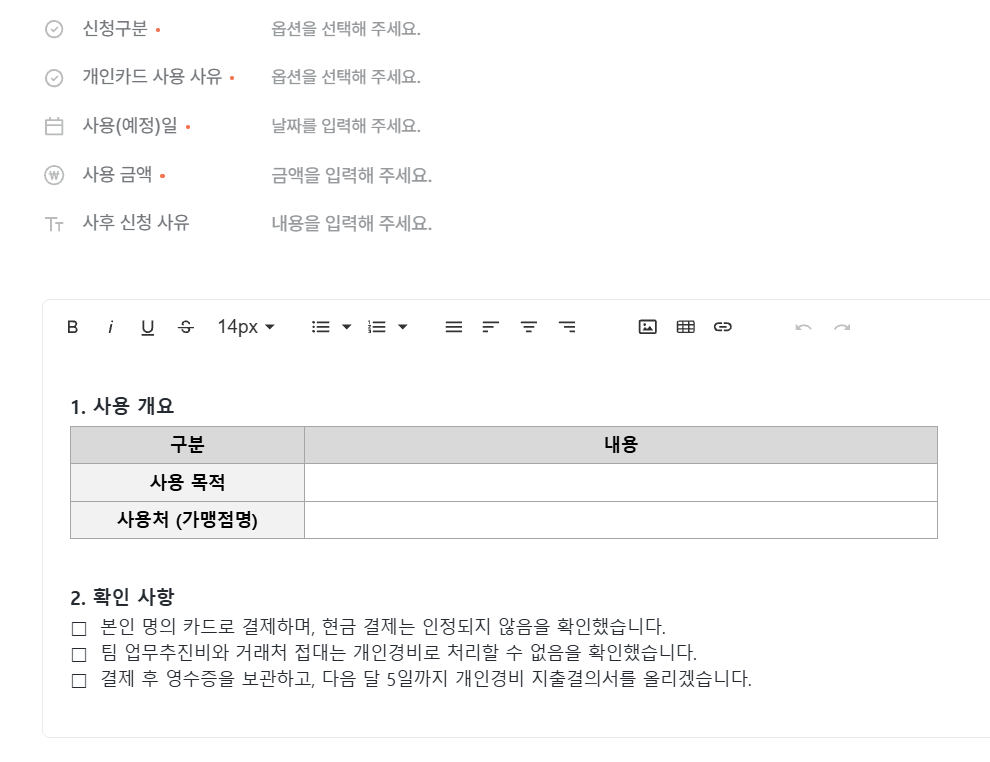
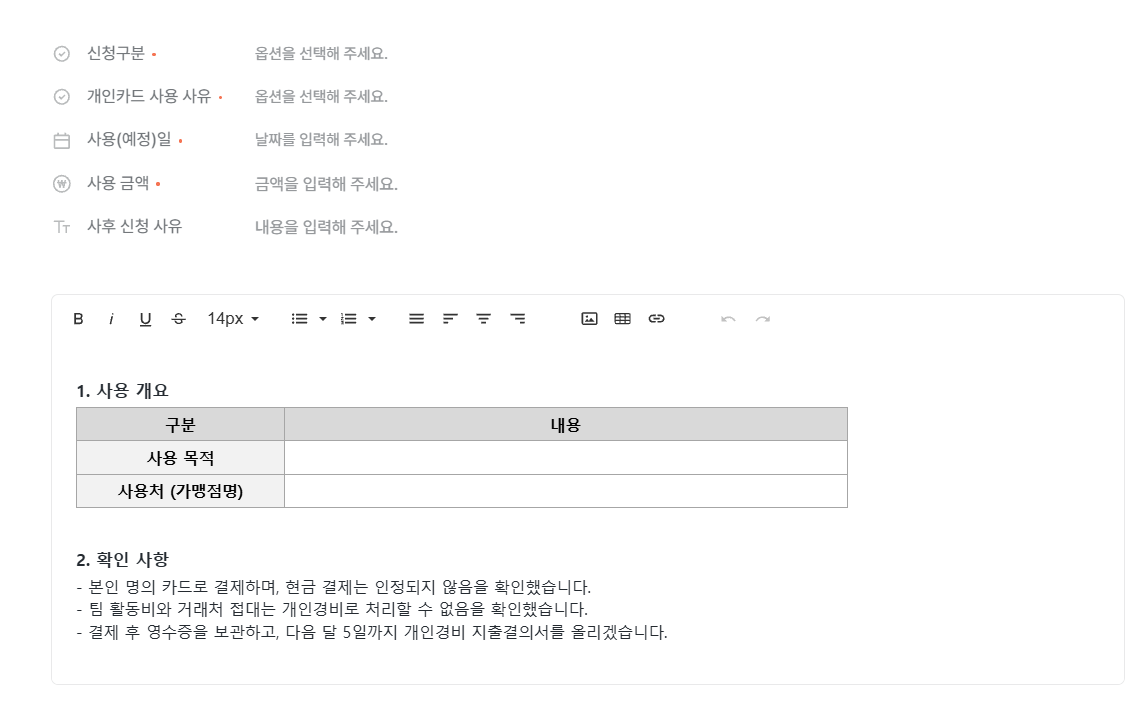
법인카드 가이드: Flex 양식 4종 최신 화면으로 교체
Claude-Session: https://claude.ai/code/session_01BfeG5sZS8sPQMH65t54ZhF

diff --git a/expense-process/index.html b/expense-process/index.html
@@ -303,9 +303,9 @@ details.how[open] summary::before{content:"－ "}
 </div>
 <p class="note" style="margin-top:16px">마감이 지나면 개별로 리마인드 안내를 드립니다.</p></section>
 <div class="part"><span>02</span>이렇게 하세요</div>
-<section id="card-flow" aria-labelledby="card-flow-h"><div class="sec-head"><h2 id="card-flow-h">법인카드로 쓸 때</h2><p>팀 공용카드는 두 가지 용도로 씁니다. 순서는 같고, 결재가 끝나야 결제할 수 있습니다.</p></div><div class="cols"><div class="card" id="s-team"><h3>팀 활동비</h3><span class="sub">팀 회식 · 커피챗 · 팀 회의 중 식음료</span><ol class="steps"><li class="key"><div><b>팀장이 Flex에 법인카드 사용 신청서 올리기</b><span>쓸 때마다 올립니다. 용도는 "팀 활동비". 당일 신청도 되지만 결재가 끝나야 결제할 수 있습니다</span></div></li><li class=""><div><b>결재가 끝나면 팀 공용카드로 결제</b><span>팀장에게 카드를 빌려 쓰고 반납합니다. 결제 시각 기준 평일 21시 이전만 인정</span></div></li><li class=""><div><b>영수증 전달</b><span>팀원이 결제했다면 영수증을 팀장에게 넘깁니다</span></div></li><li class="key"><div><b>팀장이 월말 정산</b><span>다음 달 5일까지. 아래 "월말 정산 올리기" 참고</span></div></li></ol><ul class="list"><li>사내 임직원만 참석할 수 있습니다. 외부인이 함께하면 팀 활동비로 인정하지 않습니다</li><li>다른 팀과 함께할 때는 팀마다 각자 신청하고, 각 팀 인원분을 팀별 카드로 결제합니다. 이렇게 나눠 결제하는 것은 금지된 분할 결제가 아닙니다</li><li>경영진이 참석하면 신청서에 적어 주세요. 경영진 참석분은 팀 한도와 별도로 인정합니다. 당일 갑자기 참석하면 경영진이 결제합니다</li></ul><details class="how"><summary>Flex 작성법 보기</summary><div class="fx-b"><figure><a href="img/form1.png" target="_blank" rel="noopener"><img src="img/form1.png" alt="Flex 작성 화면" loading="lazy"></a></figure><ol class="fx-l"><li><b>올리는 사람</b>팀 활동비 신청서는 팀장이 올립니다.</li><li><b>사용 용도</b>"팀 활동비"를 고릅니다.</li><li><b>카드번호</b>사용할 카드의 끝 4자리를 적습니다. (04 카드 지급예정표 참고)</li><li><b>사용(예정)일 · 사용 금액</b>쓸 날짜와 예상 금액을 적습니다.</li><li><b>본문 · 사용 목적</b>팀 회식, 커피챗, 팀 회의 등 무엇을 위해 쓰는지 적습니다. 경영진이 참석하면 함께 적습니다.</li><li><b>본문 · 사용처</b>결제할 가맹점명을 적습니다.</li><li><b>확인 사항</b>올리기 전에 읽어 주세요. 문서를 올리면 내용을 확인한 것으로 봅니다.</li></ol></div></details></div><div class="card" id="s-biz"><h3>업무경비</h3><span class="sub">거래처 접대 · 택시·외근 · 택배·퀵 · 야근 등</span><ol class="steps"><li class="key"><div><b>Flex에 법인카드 사용 신청서 올리기</b><span>쓸 때마다 올립니다. 용도는 "업무경비". 접대는 상대방·목적·참석 인원 기재. 당일 신청도 되지만 결재가 끝나야 결제할 수 있습니다</span></div></li><li class=""><div><b>결재가 끝나면 팀 공용카드로 결제</b><span>팀장에게 카드를 빌려 쓰고 반납합니다. 영수증은 건별로 보관</span></div></li><li class="key"><div><b>본인이 월말 정산</b><span>다음 달 5일까지. 아래 "월말 정산 올리기" 참고</span></div></li></ol><ul class="list"><li>거래처 접대는 참석자 1인당 3만 원까지입니다 (상대방과 우리 직원 모두 포함)</li><li>실제 금액이 신청 금액보다 커지면, 한도 안에서는 정산할 때 차이 사유를 적으면 인정합니다</li></ul><details class="how"><summary>Flex 작성법 보기</summary><div class="fx-b"><figure><a href="img/form1.png" target="_blank" rel="noopener"><img src="img/form1.png" alt="Flex 작성 화면" loading="lazy"></a></figure><ol class="fx-l"><li><b>사용 용도</b>"업무경비"를 고릅니다.</li><li><b>카드번호</b>사용할 카드의 끝 4자리를 적습니다. (04 카드 지급예정표 참고)</li><li><b>사용(예정)일 · 사용 금액</b>쓸 날짜와 예상 금액을 적습니다.</li><li><b>본문 · 사용 목적</b>무엇을 왜 쓰는지 적습니다. 거래처 접대는 상대방(회사·성명), 목적, 참석 인원을 함께 적습니다.</li><li><b>본문 · 사용처</b>결제할 가맹점명을 적습니다.</li><li><b>확인 사항</b>올리기 전에 읽어 주세요. 문서를 올리면 내용을 확인한 것으로 봅니다.</li></ol></div></details></div></div></section>
-<section id="personal" aria-labelledby="personal-h"><div class="sec-head"><h2 id="personal-h">팀 카드를 못 쓸 때 (개인경비)</h2><p>팀 카드를 다른 팀원이 쓰고 있거나 급해서 결재를 기다릴 수 없을 때, 업무경비만 본인 카드로 결제하고 2영업일 이내에 개인경비로 신청합니다.</p></div><div class="cols"><div class="card" id="s-personal"><h3>개인경비</h3><span class="sub">업무경비만 가능 · 팀 활동비와 거래처 접대는 불가</span><ol class="steps"><li class="key"><div><b>Flex에 개인경비 사용 신청서 올리기</b><span>결제 전에 올립니다. 먼저 결제했다면 2영업일 이내 사후 신청</span></div></li><li class=""><div><b>본인 카드로 결제</b><span>본인 명의 신용·체크카드. 현금 결제는 인정하지 않습니다</span></div></li><li class="key"><div><b>본인이 월말 정산</b><span>다음 달 5일까지. 승인 후 2주 이내 본인 계좌로 환급 (급여와 별도)</span></div></li></ol><details class="how"><summary>Flex 작성법 보기</summary><div class="fx-b"><figure><a href="img/form2.png" target="_blank" rel="noopener"><img src="img/form2.png" alt="Flex 작성 화면" loading="lazy"></a></figure><ol class="fx-l"><li><b>신청구분</b>사전 또는 사후 중 하나를 고릅니다. 사후는 업무경비만 가능합니다.</li><li><b>개인카드 사용 사유</b>팀 카드를 쓸 수 없었던 이유를 고릅니다.</li><li><b>사용(예정)일 · 사용 금액</b>사후 신청이면 실제 결제일과 금액을 적습니다.</li><li><b>사후 신청 사유</b>사후로 신청할 때만 적습니다.</li><li><b>본문</b>사용 목적과 사용처를 적습니다. 확인 사항은 올리기 전에 읽어 주세요.</li></ol></div></details></div><div class="card"><h3>쓸 수 있는 것 / 없는 것</h3><div><span class="tag acc">가능</span></div><ul class="list"><li>택시·외근 교통, 택배·퀵·우편, 시장조사 구매, 사무용품, 야근 식사·택시 등 업무경비</li></ul><div><span class="tag warn">불가</span></div><ul class="list"><li>팀 활동비 (팀 회식·커피챗 등)</li><li>거래처 접대</li><li>현금 결제</li></ul><p class="note">팀 활동비와 접대는 반드시 결재를 받은 뒤 법인카드로 결제합니다.</p></div></div></section>
-<section id="monthly" aria-labelledby="monthly-h"><div class="sec-head"><h2 id="monthly-h">월말 정산 올리기 (지출결의서)</h2><p>1일~말일 사용분을 다음 달 5일까지 Flex에 올립니다. 휴일이면 다음 영업일까지.</p></div><div class="cols"><div class="card" id="m-card"><h3>법인카드 지출결의서</h3><span class="sub">팀 활동비는 팀장 · 업무경비는 사용한 본인</span><ol class="steps"><li class="key"><div><b>정산 구분 선택</b><span>팀장은 팀 활동비와 본인 업무경비를 한 건에 함께 올릴 수 있습니다</span></div></li><li class=""><div><b>이번 달 신청서 연결 · 영수증 첨부</b><span>결재가 끝난 사용 신청서를 모두 연결하고 영수증을 빠짐없이 첨부</span></div></li><li class=""><div><b>사용내역 작성</b><span>결제 1건당 한 줄. 팀 활동비는 참석자, 접대는 상대방</span></div></li><li class=""><div><b>한도 확인 (팀장)</b><span>팀 활동비 사용분만 합산해 한도와 비교. 경영진 참석분은 별도</span></div></li></ol><details class="how"><summary>Flex 작성법 보기</summary><div class="fx-b"><figure><a href="img/form3.png" target="_blank" rel="noopener"><img src="img/form3.png" alt="Flex 작성 화면" loading="lazy"></a></figure><ol class="fx-l"><li><b>정산 구분</b>해당하는 것을 모두 고릅니다. 팀장은 팀 활동비와 업무경비를 함께 고를 수 있습니다.</li><li><b>사용 월 · 카드번호</b>정산하는 달(예: 2026년 12월)과 카드 끝 4자리를 적습니다.</li><li><b>합계 금액</b>본문 사용내역의 합계와 같아야 합니다.</li><li><b>금액 차이 사유</b>신청 금액과 실제 결제 금액이 다를 때만 적습니다.</li><li><b>참조 문서</b>이번 달 결재가 끝난 법인카드 사용 신청서를 모두 연결합니다.</li><li><b>첨부파일</b>결제 건별 영수증을 빠짐없이 올립니다.</li><li><b>본문 · 사용내역</b>결제 1건당 한 줄. 용도 칸에 팀 활동비/업무경비를 구분하고, 참석자 칸에 참석자 이름(접대는 상대방, 경영진 참석 시 표시)을 적습니다.</li><li><b>본문 · 한도 확인</b>팀장만 작성합니다. 팀 활동비 사용분만 합산합니다. 경영진 참석분은 한도와 별도입니다.</li></ol></div></details></div><div class="card" id="m-personal"><h3>개인경비 지출결의서</h3><span class="sub">사용한 본인</span><ol class="steps"><li class="key"><div><b>이번 달 신청서 연결 · 영수증 첨부</b><span>승인받은 개인경비 사용 신청서를 모두 연결</span></div></li><li class=""><div><b>사용내역과 환급계좌 작성</b><span>본인 명의 계좌만 가능</span></div></li><li class=""><div><b>환급</b><span>정산 승인 후 2주 이내, 급여와 별도 지급</span></div></li></ol><details class="how"><summary>Flex 작성법 보기</summary><div class="fx-b"><figure><a href="img/form4.png" target="_blank" rel="noopener"><img src="img/form4.png" alt="Flex 작성 화면" loading="lazy"></a></figure><ol class="fx-l"><li><b>사용 월 · 합계 금액</b>합계 금액이 환급받을 금액입니다.</li><li><b>환급계좌</b>본인 명의 계좌의 은행명과 계좌번호를 적습니다.</li><li><b>금액 차이 사유</b>신청 금액과 실제 결제 금액이 다를 때만 적습니다.</li><li><b>참조 문서</b>이번 달 승인받은 개인경비 사용 신청서를 모두 연결합니다.</li><li><b>첨부파일</b>본인 카드 영수증을 빠짐없이 올립니다.</li><li><b>본문 · 사용내역</b>결제 1건당 한 줄씩 적습니다. 확인 사항은 올리기 전에 읽어 주세요.</li></ol></div></details></div></div><p class="note" style="margin-top:12px">팀원이 결제한 팀 활동비는 팀장 정산에만 올리고, 팀원 본인의 업무경비 정산에는 넣지 않습니다.</p></section>
+<section id="card-flow" aria-labelledby="card-flow-h"><div class="sec-head"><h2 id="card-flow-h">법인카드로 쓸 때</h2><p>팀 공용카드는 두 가지 용도로 씁니다. 순서는 같고, 결재가 끝나야 결제할 수 있습니다.</p></div><div class="cols"><div class="card" id="s-team"><h3>팀 활동비</h3><span class="sub">팀 회식 · 커피챗 · 팀 회의 중 식음료</span><ol class="steps"><li class="key"><div><b>팀장이 Flex에 법인카드 사용 신청서 올리기</b><span>쓸 때마다 올립니다. 용도는 "팀 활동비". 당일 신청도 되지만 결재가 끝나야 결제할 수 있습니다</span></div></li><li class=""><div><b>결재가 끝나면 팀 공용카드로 결제</b><span>팀장에게 카드를 빌려 쓰고 반납합니다. 결제 시각 기준 평일 21시 이전만 인정</span></div></li><li class=""><div><b>영수증 전달</b><span>팀원이 결제했다면 영수증을 팀장에게 넘깁니다</span></div></li><li class="key"><div><b>팀장이 월말 정산</b><span>다음 달 5일까지. 아래 "월말 정산 올리기" 참고</span></div></li></ol><ul class="list"><li>사내 임직원만 참석할 수 있습니다. 외부인이 함께하면 팀 활동비로 인정하지 않습니다</li><li>다른 팀과 함께할 때는 팀마다 각자 신청하고, 각 팀 인원분을 팀별 카드로 결제합니다. 이렇게 나눠 결제하는 것은 금지된 분할 결제가 아닙니다</li><li>경영진이 참석하면 신청서에 적어 주세요. 경영진 참석분은 팀 한도와 별도로 인정합니다. 당일 갑자기 참석하면 경영진이 결제합니다</li></ul><details class="how"><summary>Flex 작성법 보기</summary><div class="fx-b"><figure><a href="img/form1.png?v=1119" target="_blank" rel="noopener"><img src="img/form1.png?v=1119" alt="Flex 작성 화면" loading="lazy"></a></figure><ol class="fx-l"><li><b>올리는 사람</b>팀 활동비 신청서는 팀장이 올립니다.</li><li><b>사용 용도</b>"팀 활동비"를 고릅니다.</li><li><b>카드번호</b>사용할 카드의 끝 4자리를 적습니다. (04 카드 지급예정표 참고)</li><li><b>사용(예정)일 · 사용 금액</b>쓸 날짜와 예상 금액을 적습니다.</li><li><b>본문 · 사용 목적</b>팀 회식, 커피챗, 팀 회의 등 무엇을 위해 쓰는지 적습니다. 경영진이 참석하면 함께 적습니다.</li><li><b>본문 · 사용처</b>결제할 가맹점명을 적습니다.</li><li><b>확인 사항</b>올리기 전에 읽어 주세요. 문서를 올리면 내용을 확인한 것으로 봅니다.</li></ol></div></details></div><div class="card" id="s-biz"><h3>업무경비</h3><span class="sub">거래처 접대 · 택시·외근 · 택배·퀵 · 야근 등</span><ol class="steps"><li class="key"><div><b>Flex에 법인카드 사용 신청서 올리기</b><span>쓸 때마다 올립니다. 용도는 "업무경비". 접대는 상대방·목적·참석 인원 기재. 당일 신청도 되지만 결재가 끝나야 결제할 수 있습니다</span></div></li><li class=""><div><b>결재가 끝나면 팀 공용카드로 결제</b><span>팀장에게 카드를 빌려 쓰고 반납합니다. 영수증은 건별로 보관</span></div></li><li class="key"><div><b>본인이 월말 정산</b><span>다음 달 5일까지. 아래 "월말 정산 올리기" 참고</span></div></li></ol><ul class="list"><li>거래처 접대는 참석자 1인당 3만 원까지입니다 (상대방과 우리 직원 모두 포함)</li><li>실제 금액이 신청 금액보다 커지면, 한도 안에서는 정산할 때 차이 사유를 적으면 인정합니다</li></ul><details class="how"><summary>Flex 작성법 보기</summary><div class="fx-b"><figure><a href="img/form1.png?v=1119" target="_blank" rel="noopener"><img src="img/form1.png?v=1119" alt="Flex 작성 화면" loading="lazy"></a></figure><ol class="fx-l"><li><b>사용 용도</b>"업무경비"를 고릅니다.</li><li><b>카드번호</b>사용할 카드의 끝 4자리를 적습니다. (04 카드 지급예정표 참고)</li><li><b>사용(예정)일 · 사용 금액</b>쓸 날짜와 예상 금액을 적습니다.</li><li><b>본문 · 사용 목적</b>무엇을 왜 쓰는지 적습니다. 거래처 접대는 상대방(회사·성명), 목적, 참석 인원을 함께 적습니다.</li><li><b>본문 · 사용처</b>결제할 가맹점명을 적습니다.</li><li><b>확인 사항</b>올리기 전에 읽어 주세요. 문서를 올리면 내용을 확인한 것으로 봅니다.</li></ol></div></details></div></div></section>
+<section id="personal" aria-labelledby="personal-h"><div class="sec-head"><h2 id="personal-h">팀 카드를 못 쓸 때 (개인경비)</h2><p>팀 카드를 다른 팀원이 쓰고 있거나 급해서 결재를 기다릴 수 없을 때, 업무경비만 본인 카드로 결제하고 2영업일 이내에 개인경비로 신청합니다.</p></div><div class="cols"><div class="card" id="s-personal"><h3>개인경비</h3><span class="sub">업무경비만 가능 · 팀 활동비와 거래처 접대는 불가</span><ol class="steps"><li class="key"><div><b>Flex에 개인경비 사용 신청서 올리기</b><span>결제 전에 올립니다. 먼저 결제했다면 2영업일 이내 사후 신청</span></div></li><li class=""><div><b>본인 카드로 결제</b><span>본인 명의 신용·체크카드. 현금 결제는 인정하지 않습니다</span></div></li><li class="key"><div><b>본인이 월말 정산</b><span>다음 달 5일까지. 승인 후 2주 이내 본인 계좌로 환급 (급여와 별도)</span></div></li></ol><details class="how"><summary>Flex 작성법 보기</summary><div class="fx-b"><figure><a href="img/form2.png?v=1119" target="_blank" rel="noopener"><img src="img/form2.png?v=1119" alt="Flex 작성 화면" loading="lazy"></a></figure><ol class="fx-l"><li><b>신청구분</b>사전 또는 사후 중 하나를 고릅니다. 사후는 업무경비만 가능합니다.</li><li><b>개인카드 사용 사유</b>팀 카드를 쓸 수 없었던 이유를 고릅니다.</li><li><b>사용(예정)일 · 사용 금액</b>사후 신청이면 실제 결제일과 금액을 적습니다.</li><li><b>사후 신청 사유</b>사후로 신청할 때만 적습니다.</li><li><b>본문</b>사용 목적과 사용처를 적습니다. 확인 사항은 올리기 전에 읽어 주세요.</li></ol></div></details></div><div class="card"><h3>쓸 수 있는 것 / 없는 것</h3><div><span class="tag acc">가능</span></div><ul class="list"><li>택시·외근 교통, 택배·퀵·우편, 시장조사 구매, 사무용품, 야근 식사·택시 등 업무경비</li></ul><div><span class="tag warn">불가</span></div><ul class="list"><li>팀 활동비 (팀 회식·커피챗 등)</li><li>거래처 접대</li><li>현금 결제</li></ul><p class="note">팀 활동비와 접대는 반드시 결재를 받은 뒤 법인카드로 결제합니다.</p></div></div></section>
+<section id="monthly" aria-labelledby="monthly-h"><div class="sec-head"><h2 id="monthly-h">월말 정산 올리기 (지출결의서)</h2><p>1일~말일 사용분을 다음 달 5일까지 Flex에 올립니다. 휴일이면 다음 영업일까지.</p></div><div class="cols"><div class="card" id="m-card"><h3>법인카드 지출결의서</h3><span class="sub">팀 활동비는 팀장 · 업무경비는 사용한 본인</span><ol class="steps"><li class="key"><div><b>정산 구분 선택</b><span>팀장은 팀 활동비와 본인 업무경비를 한 건에 함께 올릴 수 있습니다</span></div></li><li class=""><div><b>이번 달 신청서 연결 · 영수증 첨부</b><span>결재가 끝난 사용 신청서를 모두 연결하고 영수증을 빠짐없이 첨부</span></div></li><li class=""><div><b>사용내역 작성</b><span>결제 1건당 한 줄. 팀 활동비는 참석자, 접대는 상대방</span></div></li><li class=""><div><b>한도 확인 (팀장)</b><span>팀 활동비 사용분만 합산해 한도와 비교. 경영진 참석분은 별도</span></div></li></ol><details class="how"><summary>Flex 작성법 보기</summary><div class="fx-b"><figure><a href="img/form3.png?v=1119" target="_blank" rel="noopener"><img src="img/form3.png?v=1119" alt="Flex 작성 화면" loading="lazy"></a></figure><ol class="fx-l"><li><b>정산 구분</b>해당하는 것을 모두 고릅니다. 팀장은 팀 활동비와 업무경비를 함께 고를 수 있습니다.</li><li><b>사용 월 · 카드번호</b>정산하는 달(예: 2026년 12월)과 카드 끝 4자리를 적습니다.</li><li><b>합계 금액</b>본문 사용내역의 합계와 같아야 합니다.</li><li><b>금액 차이 사유</b>신청 금액과 실제 결제 금액이 다를 때만 적습니다.</li><li><b>참조 문서</b>이번 달 결재가 끝난 법인카드 사용 신청서를 모두 연결합니다.</li><li><b>첨부파일</b>결제 건별 영수증을 빠짐없이 올립니다.</li><li><b>본문 · 사용내역</b>결제 1건당 한 줄. 용도 칸에 팀 활동비/업무경비를 구분하고, 참석자 칸에 참석자 이름(접대는 상대방, 경영진 참석 시 표시)을 적습니다.</li><li><b>본문 · 한도 확인</b>팀장만 작성합니다. 팀 활동비 사용분만 합산합니다. 경영진 참석분은 한도와 별도입니다.</li></ol></div></details></div><div class="card" id="m-personal"><h3>개인경비 지출결의서</h3><span class="sub">사용한 본인</span><ol class="steps"><li class="key"><div><b>이번 달 신청서 연결 · 영수증 첨부</b><span>승인받은 개인경비 사용 신청서를 모두 연결</span></div></li><li class=""><div><b>사용내역과 환급계좌 작성</b><span>본인 명의 계좌만 가능</span></div></li><li class=""><div><b>환급</b><span>정산 승인 후 2주 이내, 급여와 별도 지급</span></div></li></ol><details class="how"><summary>Flex 작성법 보기</summary><div class="fx-b"><figure><a href="img/form4.png?v=1119" target="_blank" rel="noopener"><img src="img/form4.png?v=1119" alt="Flex 작성 화면" loading="lazy"></a></figure><ol class="fx-l"><li><b>사용 월 · 합계 금액</b>합계 금액이 환급받을 금액입니다.</li><li><b>환급계좌</b>본인 명의 계좌의 은행명과 계좌번호를 적습니다.</li><li><b>금액 차이 사유</b>신청 금액과 실제 결제 금액이 다를 때만 적습니다.</li><li><b>참조 문서</b>이번 달 승인받은 개인경비 사용 신청서를 모두 연결합니다.</li><li><b>첨부파일</b>본인 카드 영수증을 빠짐없이 올립니다.</li><li><b>본문 · 사용내역</b>결제 1건당 한 줄씩 적습니다. 확인 사항은 올리기 전에 읽어 주세요.</li></ol></div></details></div></div><p class="note" style="margin-top:12px">팀원이 결제한 팀 활동비는 팀장 정산에만 올리고, 팀원 본인의 업무경비 정산에는 넣지 않습니다.</p></section>
 <section id="return" aria-labelledby="return-h"><div class="sec-head"><h2 id="return-h">돌려줘야 하는 경우</h2><p>반환이 필요하면 경영팀이 정산 내용을 확인한 뒤 대상자에게 요청하고, 반환 계좌도 이때 안내합니다.</p></div><div class="tbl-wrap"><table class="stack" style="min-width:640px"><thead><tr><th>상황</th><th>처리</th><th>기한</th></tr></thead><tbody><tr><td data-l="상황"><b>결재 없이 법인카드로 결제 (업무경비)</b></td><td data-l="처리">회사 계좌로 반환한 뒤 개인경비로 다시 신청</td><td data-l="기한">경영팀 요청 후 10영업일 이내</td></tr><tr><td data-l="상황"><b>결재 없이 법인카드로 결제 (팀 활동비·접대)</b></td><td data-l="처리">회사 계좌로 반환. <b>다시 신청할 수 없습니다</b></td><td data-l="기한">경영팀 요청 후 10영업일 이내</td></tr><tr><td data-l="상황"><b>팀 활동비 한도 초과 (1인 월 5만 원)</b></td><td data-l="처리">초과분을 회사 계좌로 반환</td><td data-l="기한">정산 종결 후 10영업일 이내</td></tr><tr><td data-l="상황"><b>접대비 한도 초과 (참석자 1인 3만 원)</b></td><td data-l="처리">초과분을 회사 계좌로 반환</td><td data-l="기한">정산 종결 후 10영업일 이내</td></tr><tr><td data-l="상황"><b>신청 금액보다 많이 나왔는데 한도도 넘은 경우</b></td><td data-l="처리">한도를 넘은 금액을 회사 계좌로 반환</td><td data-l="기한">정산 종결 후 10영업일 이내</td></tr><tr><td data-l="상황"><b>외부인이 참석한 팀 활동, 쓸 수 없는 비용</b></td><td data-l="처리">해당 금액을 회사 계좌로 반환</td><td data-l="기한">정산 종결 후 10영업일 이내</td></tr></tbody></table></div><p class="note" style="margin-top:12px">결재 없이 결제하면 반환하고 다시 신청하는 번거로움이 생기고, 팀 활동비와 접대는 지원을 받을 수 없습니다. 꼭 결재를 받은 뒤 결제해 주세요. 반환금은 급여에서 공제하지 않습니다.</p></section>
 <div class="part"><span>03</span>쓸 수 있는 것 · 없는 것</div>
 <section id="scope" aria-labelledby="scope-h"><div class="sec-head"><h2 id="scope-h">법인카드 사용 범위</h2><p></p></div><div class="tbl-wrap"><table class="stack" style="min-width:640px"><thead><tr><th>구분</th><th>팀 활동비</th><th>업무경비</th></tr></thead><tbody><tr><td data-l="구분"><b>용도</b></td><td data-l="팀 활동비">팀 회식, 팀원 간 커피챗, 팀 회의 중 식음료</td><td data-l="업무경비">거래처 접대, 택시·외근, 시장조사, 촬영·발송, 야근 식사·택시 등 업무에 필요한 경비</td></tr><tr><td data-l="구분"><b>한도</b></td><td data-l="팀 활동비">팀 전체 한도 = 팀 인원 × 월 5만 원 (팀장 포함)<br>매월 1일 재직 인원 기준, 팀이 함께 사용, 이월 불가</td><td data-l="업무경비">거래처 접대: 참석자 1인당 3만 원<br>그 밖의 경비: 별도 한도 없음 (야근은 야근 지원 기준)</td></tr><tr><td data-l="구분"><b>참석</b></td><td data-l="팀 활동비">사내 임직원만 (외부인 참석 시 불인정)</td><td data-l="업무경비">—</td></tr><tr><td data-l="구분"><b>유의 사항</b></td><td data-l="팀 활동비">결제 시각 기준 평일 21시 이전만 인정<br>주말·공휴일 결제 불인정</td><td data-l="업무경비">거래처 접대는 상대방·목적·참석 인원을 적습니다</td></tr><tr><td data-l="구분"><b>월말 정산</b></td><td data-l="팀 활동비">팀장이 팀원 사용분까지 모아 올림<br>(팀장 본인 업무경비와 1건으로 함께 가능)</td><td data-l="업무경비">사용한 본인이 올림</td></tr></tbody></table></div></section>
